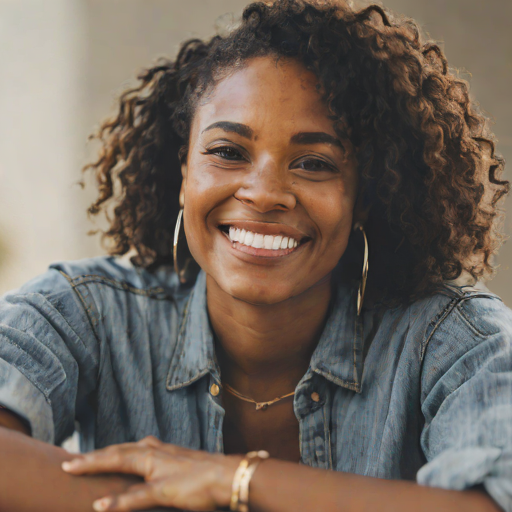
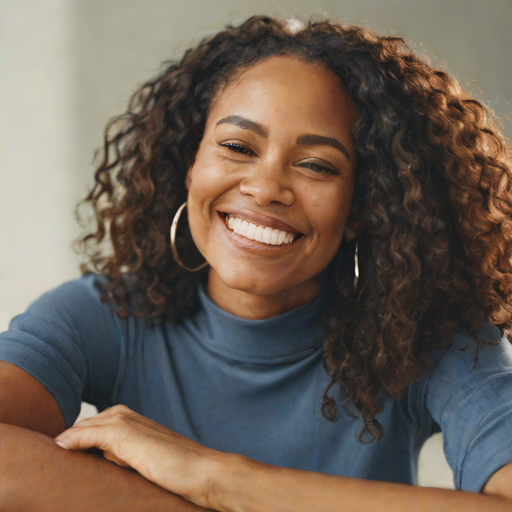
image styles

diff --git a/my-app/src/pages/SelectImages.tsx b/my-app/src/pages/SelectImages.tsx
@@ -1,13 +1,18 @@
 import './style/selectimages.css'
 import ProgressBar from '../components/ui/pointsbar';
 import { Image } from '@/components/Image';
+import { ImageWrapper } from '@/components/ImageWrapper';
 export function SelectImages() {
   return (
     <>
-      <div style={{ backgroundColor: "#a7e4fa", backgroundImage: "url(./bubbles.png)", height: "100vh", padding: "10%"}}>
+      <div style={{ backgroundColor: "#a7e4fa", backgroundImage: "url(./bubbles.png)", height: "max(100%, 100vh)", padding: "10%"}}>
         <div className="title">choose the <span className="bubblefont">REAL</span> image</div>
         <ProgressBar progress={15}/>
-        <img src='images/people/african-american-woman-smiling-portrait_1303-12373.jpg'></img>
+        <div className="images-fishy">
+        <ImageWrapper imageID='girl-smiling-flowers.jpg'/>
+        <ImageWrapper imageID="output_girl-smiling-flowers.jpg.png"/>
+        </div>
+        
       </div>
     </>
   );

diff --git a/my-app/src/pages/style/selectimages.css b/my-app/src/pages/style/selectimages.css
@@ -10,3 +10,17 @@
     font-weight: 800;
     font-style: normal;
 }
+.images-fishy {
+    display: flex;
+    align-items: center;
+    justify-content: center;
+    flex: 1 1;
+}
+.im {
+    display: flex;
+    align-items: center;
+    overflow: hidden;
+    flex-grow: 1;
+    width: 50%;
+    height: 400px;
+}

diff --git a/my-app/src/components/ImageWrapper.tsx b/my-app/src/components/ImageWrapper.tsx
@@ -1,0 +1,8 @@
+import { Image } from '@/components/Image';
+
+export function ImageWrapper({imageID} : {imageID: string}) {
+    return <div className="im">
+        <Image imageID={imageID} />
+    </div>
+
+}

diff --git a/stable_diffusion/stable_diffusion_xl_turbo.py b/stable_diffusion/stable_diffusion_xl_turbo.py
@@ -107,7 +107,7 @@ images = {}
 images['nature'] = ['beautiful-scenery-mesas-landscape-bryce-canyon-national-park-utah-usa_181624-41945.avif', 'beautiful-shot-little-river-forest_181624-1520.jpg', 'lac-du-pontet-alps_181624-25842.avif', 'morning-light-sonoran-desert-scottsdale-arizona_181624-48339.avif', 'mount-mont-blanc-covered-snow-reflecting-water-evening-chamonix-france_181624-33408.avif', 'pier-lake-hallstatt-austria_181624-44201.avif', 'river-surrounded-by-forests-cloudy-sky-thuringia-germany.jpg']
 # images = get_images("demo_images/nature")
 images['food'] = ['close-up-fork-with-bowl-fruit_23-2148233265.jpg', 'closeup-delicious-cooked-rice-with-vegetables-sauce-plate-table_181624-34969.jpg', 'cookies-ice-cream-arrangement-high-angle_23-2149836001.jpg', 'delicious-tacos-basket-high-angle_23-2148629319.jpg', 'fast-food-concept-with-american-flag_23-2147695719.jpg', 'still-life-delicious-american-hamburger_23-2149637320.jpg', 'stir-fry-chicken-zucchini-sweet-peppers-green-onion_2829-10786.jpg']
-images['people'] = ['african-american-woman-smiling-portrait_1303-12373.jpg', 'diverse-friends-students-shoot_53876-47012.jpg', 'front-view-smiley-people-group-therapy-session.jpg', 'medium-shot-happy-family-indoors_23-2148880377.jpg', 'pensive-woman-architect-working-home_273609-20496.jpg', 'people-posing-together-registration-day_23-2149096794.jpg', 'person-indian-origin-having-fun_23-2150285283.jpg', 'side-view-man-woman-conversing-group-therapy-session.jpg', 'smiley-childrens-book-day-event.jpg', 'warm-loving-capturing-joyful-moments-families-from-different-backgrounds_1274913-8944.jpg', 'young-bearded-man-with-striped-shirt_273609-5677.jpg', 'young-family-with-their-little-son-home_1303-20993.jpg'] 
+images['people'] = ['african-american-woman-smiling-portrait_1303-12373.jpg', 'african-man-posing-green-shirt.jpg', 'african-woman-black-and-white-shirt.jpg', 'asian-woman-plaid-shirt.jpg', 'elderly-man-with-glasses.jpg', 'girl-smiling-flowers.jpg', 'man-south-asian-green-shirt.jpg', 'pensive-woman-architect-working-home_273609-20496.jpg', 'person-indian-origin-having-fun_23-2150285283.jpg', 'woman-smiling-wearing-hijab.jpg', 'woman-with-camera.jpg', 'young-bearded-man-with-striped-shirt_273609-5677.jpg']
 images['animals'] = ['cat.jpg', 'dog.png']
 
 @app.local_entrypoint()

diff --git a/stable_diffusion/get_images.py b/stable_diffusion/get_images.py
@@ -6,7 +6,7 @@ def get_images(dir):
     return [f for f in listdir(Path(__file__).parent / dir)]
 # folder = Path(__file__).parent / "demo_images/nature"
 # print(get_images(folder))
-images = get_images("demo_images/animals")
+images = get_images("demo_images/people")
 print(images)
 image = images[0]
 print(image)

diff --git a/stable_diffusion/app.py b/stable_diffusion/app.py
@@ -1,7 +1,7 @@
 from flask import Flask, request
 import subprocess
 
-from stable_diffusion_xl_turbo import generate_images
+# from stable_diffusion_xl_turbo import generate_images
 app = Flask(__name__)
 
 
